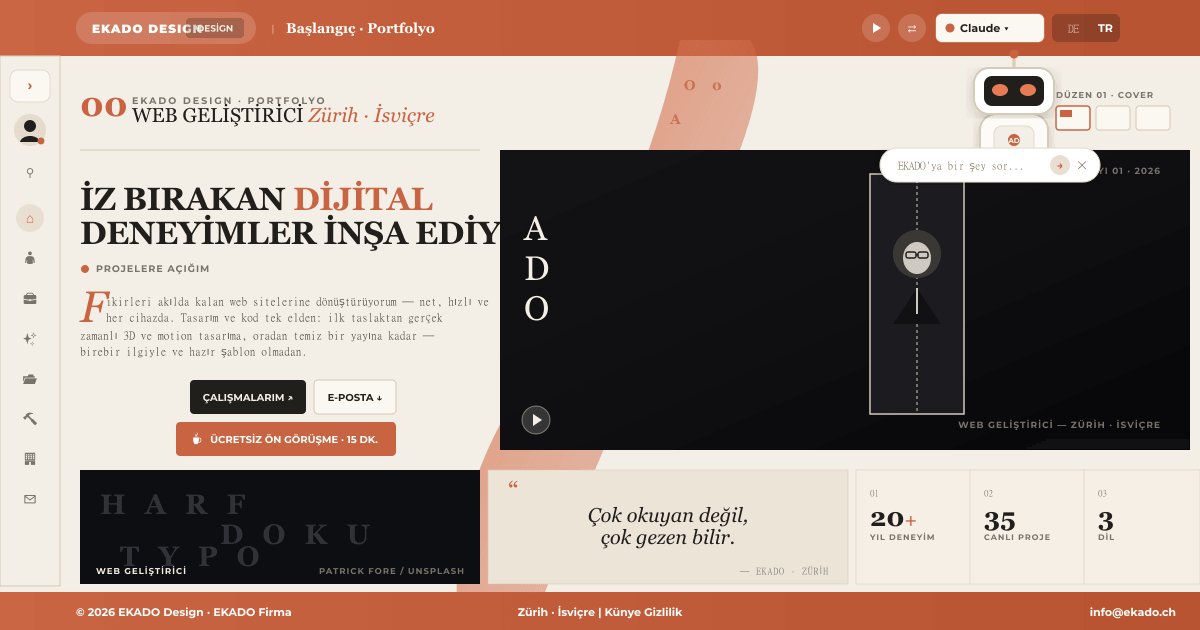
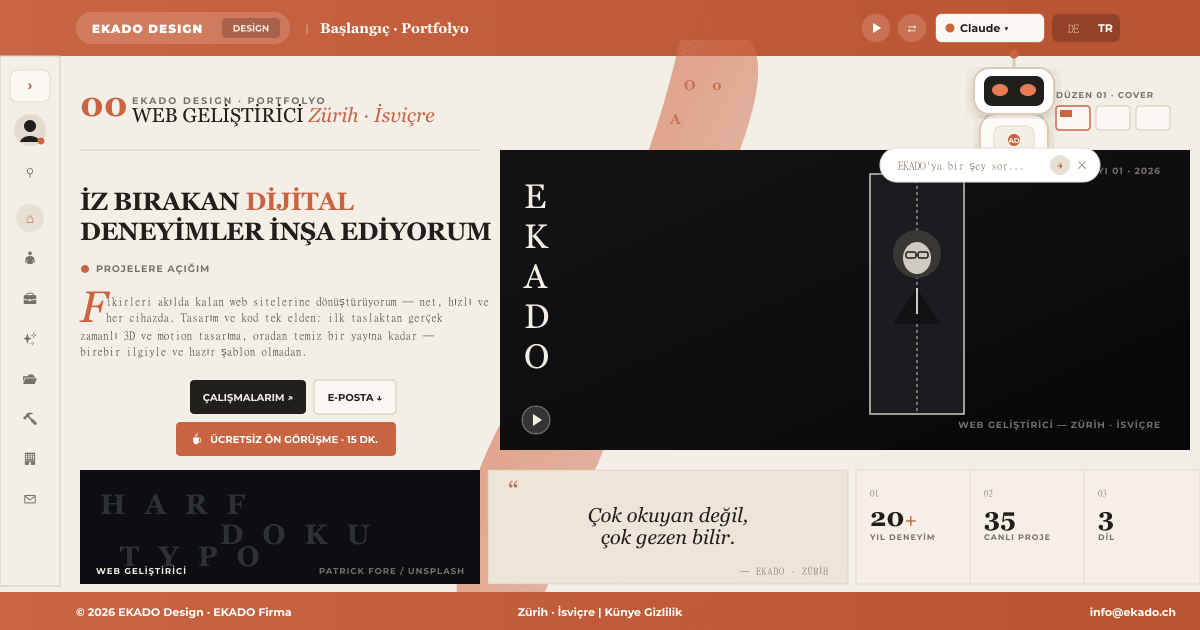
Vorschaubild: EKADO senkrecht, Wortmarke nicht mehr ueber dem Etikett, Titel passt; ?v=2 gegen alten WhatsApp-Cache

Changed region(s): [[0.0617, 0.2714, 0.4625, 0.5127], [0.1542, 0.0, 0.4008, 0.0905], [0.4317, 0.5429, 0.4625, 0.6032]]

diff --git a/index.html b/index.html
@@ -15,8 +15,8 @@
     <meta property="og:title" content="EKADO Design &amp; EKADO Firma · Web, Şirket Altyapısı &amp; Instagram Otomasyonu" />
     <meta property="og:description" content="Zürih merkezli 3 ana platform: 1) EKADO DESIGN — Özel tasarım modern web siteleri, 3D vitrinler &amp; portfolyo. 2) EKADO FIRMA — Restoran ve KOBİ'ler için sipariş, vardiya, kasa/Z-raporu ve paketler. 3) EKADO INSTAOTO — 7/24 otomatik DM yanıtları, randevu ve müşteri otomasyonu." />
     <meta property="og:url" content="https://www.ekado.ch/" />
-    <meta property="og:image" content="https://www.ekado.ch/og-image.png" />
-    <meta property="og:image:secure_url" content="https://www.ekado.ch/og-image.png" />
+    <meta property="og:image" content="https://www.ekado.ch/og-image.png?v=2" />
+    <meta property="og:image:secure_url" content="https://www.ekado.ch/og-image.png?v=2" />
     <meta property="og:image:type" content="image/png" />
     <meta property="og:image:width" content="1200" />
     <meta property="og:image:height" content="630" />
@@ -26,7 +26,7 @@
     <meta name="twitter:card" content="summary_large_image" />
     <meta name="twitter:title" content="EKADO Design &amp; EKADO Firma · Web, Şirket Altyapısı &amp; Instagram Otomasyonu" />
     <meta name="twitter:description" content="Zürih merkezli 3 ana platform: 1) EKADO DESIGN — Modern web siteleri &amp; portfolyo. 2) EKADO FIRMA — Restoran ve KOBİ operasyon merkezi. 3) EKADO INSTAOTO — 7/24 akıllı Instagram DM ve müşteri otomasyonu." />
-    <meta name="twitter:image" content="https://www.ekado.ch/og-image.png" />
+    <meta name="twitter:image" content="https://www.ekado.ch/og-image.png?v=2" />
 
     <!-- Schema.org Structured Data (JSON-LD) -->
     <script type="application/ld+json">
@@ -43,7 +43,7 @@
           {
             "@type": "ProfessionalService",
             "name": "EKADO Design & EKADO Firma",
-            "image": "https://www.ekado.ch/og-image.png",
+            "image": "https://www.ekado.ch/og-image.png?v=2",
             "email": "info@ekado.ch",
             "address": {
               "@type": "PostalAddress",
